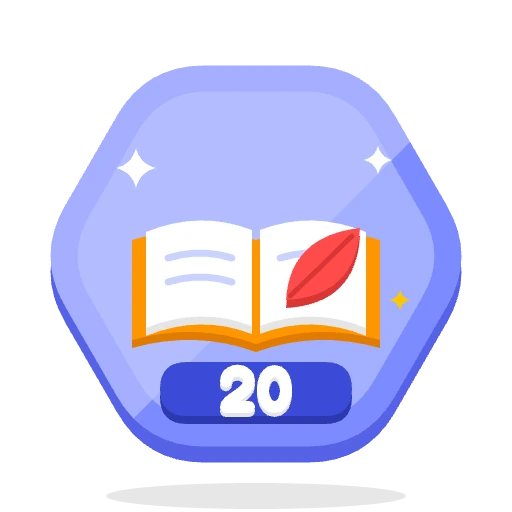
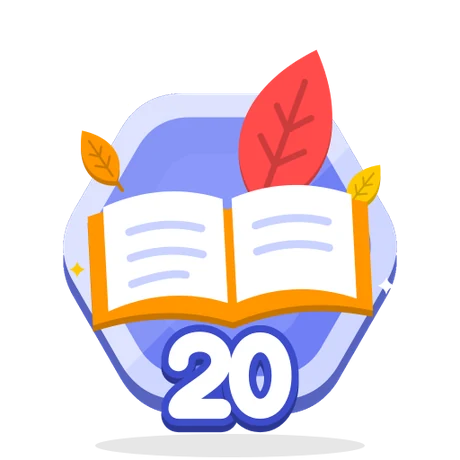
Show the redrawn quest badges and add Boo to the quests section
Swap the ten launch badges for the award-style art from Nov 12, add the
eight new award badges, and put Boo (onboarding look) on the This month
card with a gentle bob and blink.

diff --git a/src/components/QuestsBadges.vue b/src/components/QuestsBadges.vue
@@ -42,6 +42,8 @@
 
     <!-- This month, as the app's Quests screen shows it -->
     <div class="qb-quests" data-reveal>
+      <!-- Boo in her onboarding look (cape, book), posed from tasks/onboarding_v2. Inline so her eyes can blink. -->
+      <div class="qb-boo" aria-hidden="true" v-html="booSvg" />
       <div class="qb-headline">
         <img class="qb-headline__badge" :src="badgeNov" alt="" />
         <div class="qb-headline__body">
@@ -86,6 +88,15 @@ import badge50 from '@/assets/showcase/badge-books-50.webp'
 import badge100 from '@/assets/showcase/badge-books-100.webp'
 import badge150 from '@/assets/showcase/badge-books-150.webp'
 import badge200 from '@/assets/showcase/badge-books-200.webp'
+import badgeFirstLight from '@/assets/showcase/badge-first-light.webp'
+import badgeFullShelf from '@/assets/showcase/badge-full-shelf.webp'
+import badgeDoorstopper from '@/assets/showcase/badge-doorstopper.webp'
+import badgeTenK from '@/assets/showcase/badge-ten-thousand-pages.webp'
+import badgeMoon from '@/assets/showcase/badge-moon-cycle.webp'
+import badgeHundredDays from '@/assets/showcase/badge-hundred-days.webp'
+import badgeMarginalia from '@/assets/showcase/badge-marginalia.webp'
+import badgeCritic from '@/assets/showcase/badge-critic.webp'
+import booSvg from '@/assets/showcase/boo.svg?raw'
 
 useReveal()
 
@@ -98,18 +109,27 @@ const TODAY = [
   { title: 'Perfect week', meta: '5 of 7 days this week', exp: 100, done: false },
 ]
 
-// Titles from Bookmarko/assets/badges/badges.json; the hidden easter egg badge stays out.
+// Art and titles from Bookmarko/assets/badges (badges.json, the award style redrawn 2026-11-12),
+// converted to 460px webp. The hidden easter egg badge (two_books) stays out.
 const BADGES: { title: string; src: string; state: BadgeState; how: string }[] = [
   { title: 'November Reader', src: badgeNov, state: 'progress', how: 'Read on 20 days in November. Only this month.' },
   { title: 'Perfect week', src: badgePerfectWeek, state: 'earned', how: 'Read every day for a week.' },
+  { title: 'First Light', src: badgeFirstLight, state: 'earned', how: 'Finish your first book.' },
+  { title: 'Full Shelf', src: badgeFullShelf, state: 'earned', how: 'Finish ten books.' },
   { title: 'Twenty books', src: badge20, state: 'earned', how: 'Finish twenty books.' },
   { title: 'Twelve genres', src: badgeGenres, state: 'earned', how: 'Read across twelve genres.' },
+  { title: 'Moon Cycle', src: badgeMoon, state: 'earned', how: 'Read 30 days in a row.' },
   { title: 'Your reading goal', src: badgeGoal, state: 'progress', how: 'Hit the goal you set for 2026.' },
+  { title: 'Marginalia', src: badgeMarginalia, state: 'progress', how: 'Write fifty notes in your books.' },
+  { title: 'Critic', src: badgeCritic, state: 'progress', how: 'Write ten reviews.' },
+  { title: 'Ten Thousand Pages', src: badgeTenK, state: 'progress', how: 'Read ten thousand pages.' },
   { title: 'Fifty books', src: badge50, state: 'earned', how: 'Finish fifty books.' },
+  { title: 'Doorstopper', src: badgeDoorstopper, state: 'locked', how: 'Finish a book over 700 pages.' },
   { title: 'Seven in a row', src: badgeDec, state: 'locked', how: "December's badge. Opens on the first." },
-  { title: 'A hundred books', src: badge100, state: 'locked', how: 'Finish a hundred books.' },
-  { title: 'A hundred and fifty', src: badge150, state: 'locked', how: 'Finish a hundred and fifty books.' },
-  { title: 'Two hundred books', src: badge200, state: 'locked', how: 'Finish two hundred books.' },
+  { title: 'Hundred Days', src: badgeHundredDays, state: 'locked', how: 'Read 100 days in a row.' },
+  { title: 'Hundred books', src: badge100, state: 'locked', how: 'Finish a hundred books.' },
+  { title: 'Book fort', src: badge150, state: 'locked', how: 'Finish a hundred and fifty books.' },
+  { title: 'Book royalty', src: badge200, state: 'locked', how: 'Finish two hundred books.' },
 ]
 
 const N = BADGES.length
@@ -216,8 +236,9 @@ onBeforeUnmount(() => {
 
 /* ---------- This month ---------- */
 .qb-quests {
+  position: relative;
   max-width: 900px;
-  margin: 56px auto 0;
+  margin: 150px auto 0;
   padding: 22px;
   display: grid;
   grid-template-columns: 1fr 1fr;
@@ -228,6 +249,28 @@ onBeforeUnmount(() => {
   border: 1px solid var(--line-soft);
   box-shadow: 0 40px 80px -40px rgba(81, 112, 255, .35), 0 12px 30px -18px rgba(20, 25, 58, .18);
 }
+/* ---------- Boo, standing on the card's top edge ---------- */
+.qb-boo {
+  position: absolute;
+  right: 48px;
+  bottom: calc(100% - 14px);
+  width: 170px;
+  pointer-events: none;
+  animation: booBob 3.4s ease-in-out infinite;
+  transform-origin: 50% 100%;
+}
+.qb-boo :deep(svg) { display: block; width: 100%; height: auto; overflow: visible; }
+/* The lid groups keep their own translate; scaleY 0 is open, 1 is shut. */
+.qb-boo :deep([data-p$='/lid']) { animation: booBlink 4.6s infinite; }
+@keyframes booBob {
+  0%, 100% { transform: translateY(0) rotate(-1.5deg); }
+  50%      { transform: translateY(-6px) rotate(1.5deg); }
+}
+@keyframes booBlink {
+  0%, 93%, 100% { transform: translate(0px, -19.36px) scale(1, 0); }
+  96%           { transform: translate(0px, -19.36px) scale(1, 1); }
+}
+
 .qb-label { font-size: 11px; font-weight: 700; letter-spacing: .08em; text-transform: uppercase; color: var(--ink-mute); }
 .qb-label--list { display: block; margin: 2px 4px 8px; }
 
@@ -285,7 +328,8 @@ onBeforeUnmount(() => {
   .qb-row { height: 230px; }
   .qb-badge { width: 170px; height: 170px; }
   .qb-stage__glow { top: 115px; width: 300px; height: 220px; }
-  .qb-quests { grid-template-columns: 1fr; max-width: 520px; }
+  .qb-quests { grid-template-columns: 1fr; max-width: 520px; margin-top: 120px; }
+  .qb-boo { width: 130px; right: 24px; }
 }
 @media (max-width: 720px) {
   .qb { padding: 100px 18px; }
@@ -294,5 +338,6 @@ onBeforeUnmount(() => {
   .qb-badge { transition: none; }
   .qb-badge.is-active img { animation: none; }
   .qb-bar i { transition: none; }
+  .qb-boo, .qb-boo :deep([data-p$='/lid']) { animation: none; }
 }
 </style>
